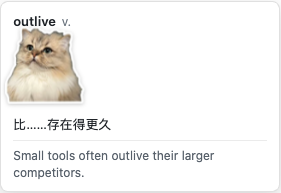
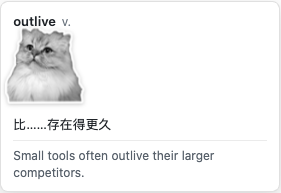
fix: show the cat sticker in grey until it is claimed

Changed region(s): [[0.0285, 0.1554, 0.2562, 0.4352], [0.1993, 0.4663, 0.2847, 0.5285], [0.0285, 0.4352, 0.0854, 0.5285]]

diff --git a/src/content/effects/cat-sticker.ts b/src/content/effects/cat-sticker.ts
@@ -36,7 +36,8 @@ const CSS = `
 }
 
 /* The cut-out photo carries a baked white die-cut edge; the shadow keeps that
-   edge readable on light cards, where the border alone would disappear. */
+   edge readable on light cards, where the border alone would disappear.
+   Unclaimed words show a grey sticker; claiming it brings the photo to life. */
 [data-ilmt-effect="${EFFECT_ID}"] .ilmt-gloss-fx-img {
   display: block;
   width: 80px;
@@ -45,8 +46,15 @@ const CSS = `
   -webkit-user-drag: none;
   user-select: none;
   pointer-events: none;
-  filter: drop-shadow(0 1px 2px rgba(0, 0, 0, .22));
+  filter: drop-shadow(0 1px 2px rgba(0, 0, 0, .22)) grayscale(1);
+  transition: filter 320ms ease;
   animation: ilmt-sticker-bob 3.8s ease-in-out infinite;
+}
+
+[data-ilmt-effect="${EFFECT_ID}"][data-ilmt-state="hit"] .ilmt-gloss-fx-img,
+[data-ilmt-effect="${EFFECT_ID}"][data-ilmt-state="settled"] .ilmt-gloss-fx-img,
+[data-ilmt-effect="${EFFECT_ID}"][data-ilmt-state="known"] .ilmt-gloss-fx-img {
+  filter: drop-shadow(0 1px 2px rgba(0, 0, 0, .22)) grayscale(0);
 }
 
 [data-ilmt-effect="${EFFECT_ID}"][data-ilmt-state="hit"] .ilmt-gloss-fx-img {
@@ -61,7 +69,6 @@ const CSS = `
 [data-ilmt-effect="${EFFECT_ID}"][data-ilmt-state="known"] .ilmt-gloss-fx-img {
   animation: none;
   transform: translateY(1px);
-  filter: drop-shadow(0 1px 2px rgba(0, 0, 0, .18)) saturate(.25) opacity(.9);
 }
 
 [data-ilmt-effect="${EFFECT_ID}"] .ilmt-gloss-fx-plus {
@@ -88,6 +95,10 @@ const CSS = `
 [data-ilmt-effect="${EFFECT_ID}"][data-ilmt-animations="off"] .ilmt-gloss-fx-img,
 [data-ilmt-effect="${EFFECT_ID}"][data-ilmt-animations="off"] .ilmt-gloss-fx-plus {
   animation: none;
+}
+
+[data-ilmt-effect="${EFFECT_ID}"][data-ilmt-animations="off"] .ilmt-gloss-fx-img {
+  transition: none;
 }
 
 /* The review card keeps a 50×44 avatar slot; the photo is wider than that. */
@@ -122,7 +133,7 @@ const CSS = `
 export const catStickerEffect: ClaimEffect = {
   id: EFFECT_ID,
   label: "贴纸猫",
-  summary: "照片抠出来的猫贴在词下面，点一下掀起来再拍回去。",
+  summary: "灰着的照片贴在词下面，收录后整只猫上色并拍回卡片。",
   reserve: { above: 0, below: 84 },
   css: CSS,
   mount(ctx): ClaimHandle {

diff --git a/docs/previews/cat-sticker.html b/docs/previews/cat-sticker.html
@@ -74,10 +74,16 @@
         display: block;
         width: 100%;
         height: auto;
-        filter: drop-shadow(0 1px 2px rgba(0, 0, 0, 0.22));
+        filter: drop-shadow(0 1px 2px rgba(0, 0, 0, 0.22)) grayscale(1);
+        transition: filter 320ms ease;
         animation: sticker-bob 3.8s ease-in-out infinite;
         -webkit-user-drag: none;
         user-select: none;
+      }
+      .cat[data-state="peel"] .fx-img,
+      .cat[data-state="settled"] .fx-img,
+      .cat[data-state="known"] .fx-img {
+        filter: drop-shadow(0 1px 2px rgba(0, 0, 0, 0.22)) grayscale(0);
       }
       .cat .fx-plus {
         position: absolute;
@@ -95,7 +101,6 @@
       .cat[data-state="known"] .fx-img {
         animation: none;
         transform: translateY(1px);
-        filter: drop-shadow(0 1px 2px rgba(0, 0, 0, 0.18)) saturate(0.25) opacity(0.9);
       }
       .cat[data-state="peel"] .fx-img { animation: none; transform: translateY(-9px) rotate(-5deg) scale(1.04); }
       .cat[data-state="play"] .fx-img { animation: sticker-peel 720ms cubic-bezier(0.34, 0.7, 0.36, 1) both; }
@@ -142,10 +147,10 @@
       const tpl = document.getElementById("cat-tpl");
       const grid = document.getElementById("grid");
       const states = [
-        ["idle", "悬停：贴纸贴在词下面，轻轻起伏"],
-        ["peel", "点击中：掀起来（720ms 动画的第 36%）"],
-        ["settled", "落定：拍回卡片，右侧淡入 +1 已收录"],
-        ["known", "已收过：降饱和，表示这个词已经收过了"],
+        ["idle", "悬停：还没收录，贴纸是灰的，轻轻起伏"],
+        ["peel", "点击中：掀起来，同时开始上色（720ms 的第 36%）"],
+        ["settled", "落定：整只猫上色并拍回卡片，右侧淡入 +1 已收录"],
+        ["known", "已收过：保持彩色，安静地待在词下面"],
       ];
       grid.innerHTML = states
         .map(

diff --git a/docs/superpowers/specs/2026-11-15-cat-sticker-design.md b/docs/superpowers/specs/2026-11-15-cat-sticker-design.md
@@ -50,10 +50,13 @@
 
 | 阶段 | 时长 | 画面 |
 | --- | --- | --- |
-| `idle` | 循环 3.8s | 上下浮 2px、轻微旋转 -0.7° |
-| `hit` | 720ms | 18% 掀起到 -7px/-4°，36% 顶点 -9px/-5°（缩放 1.04），56% 拍回卡面并压扁到 `1.02 × 0.96`，74% 回弹，100% 归位 |
-| `settled` | 定格 | 停住，右侧淡入 `+1 已收录` |
-| `known` | 定格 | `saturate(.25)` + 0.9 透明度，表示这一页的猫已经认识这个词 |
+| `idle` | 循环 3.8s | **灰度**（未收录的词，猫是灰照片），上下浮 2px、轻微旋转 -0.7° |
+| `hit` | 720ms | 18% 掀起到 -7px/-4°，36% 顶点 -9px/-5°（缩放 1.04），56% 拍回卡面并压扁到 `1.02 × 0.96`，74% 回弹，100% 归位；同时 320ms 内从灰度过渡到彩色 |
+| `settled` | 定格 | 彩色拍回，右侧淡入 `+1 已收录` |
+| `known` | 定格 | 保持彩色（已经收了），安静地停在词下方，不显示 `+1` |
+
+> 2026-11-15 修订（用户要求）：一开始 `settled` 彩色、`known` 降饱和是反的。现在的语义是
+> **未收录 = 灰的，收录 = 上色**，`known` 属于「已收录」，所以也是彩色。
 
 动效关闭时：点击后直接落到终态，不播放 keyframes。
 

diff --git a/docs/delivery-verification.md b/docs/delivery-verification.md
@@ -316,7 +316,7 @@ P0 交付验证：通过 / 未通过
 **改动**：新增 `cat-sticker`（设置页名「贴纸猫」）：用户第二张猫照走 **真照片抠图**（macOS Vision 前景分割），
 `scripts/photo-sticker.swift` 裁切 + 白色 die-cut 描边，`cwebp` 压到 8.6KB 后由 `assetsInlineLimit`
 内联进 bundle（不新增 `web_accessible_resources`、页面不发图片请求）。动效为「贴在词下方轻浮 → 点击掀起再拍回」，
-已收录时降饱和。复习卡 50×44 头像位由特效自己的 CSS 缩到 0.62。原图存 `docs/assets/cat-held-original.jpg`。
+未收录时照片是灰的，点击收录后 320ms 内上色（`known` 也保持彩色，只少了 `+1`）。复习卡 50×44 头像位由特效自己的 CSS 缩到 0.62。原图存 `docs/assets/cat-held-original.jpg`。
 
 **验证**：
 - 自动门禁：通过（675/675 单测，44 个文件；`tsc`、build、`check-build`）
